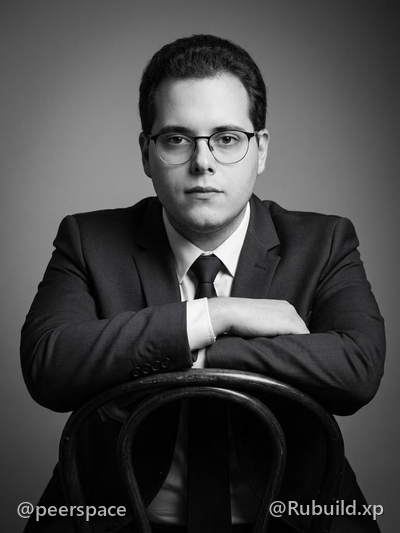
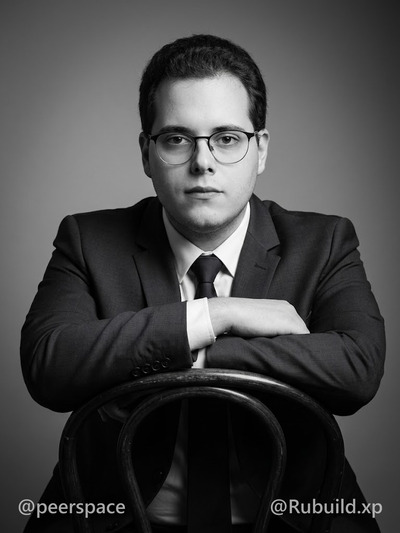
New studio portrait 3072x4096 with watermarks; 400/768/1536/3072 srcset

Changed region(s): [[0.66, 0.9306, 0.96, 0.9906], [0.03, 0.9306, 0.33, 0.9906]]

diff --git a/content/fr/index.md b/content/fr/index.md
@@ -33,7 +33,7 @@ highlights:
     text: "À 17 ans, parmi les 100 finalistes du plus grand concours de poésie amateur de France, avec <em>Danse sur les dunes</em>, publié aux Éditions Bruno Doucey."
 ---
 <div class="about-intro">
-<img class="about-portrait about-portrait--lg" src="/assets/img/ruben-gariazzo-studio-400.jpg" srcset="/assets/img/ruben-gariazzo-studio-400.jpg 400w, /assets/img/ruben-gariazzo-studio-768.jpg 768w, /assets/img/ruben-gariazzo-studio.jpg 1536w" sizes="17rem" width="400" height="533" alt="Portrait en noir et blanc de Ruben Gariazzo, élève ingénieur à l'EPF">
+<img class="about-portrait about-portrait--lg" src="/assets/img/ruben-gariazzo-studio-400.jpg" srcset="/assets/img/ruben-gariazzo-studio-400.jpg 400w, /assets/img/ruben-gariazzo-studio-768.jpg 768w, /assets/img/ruben-gariazzo-studio-1536.jpg 1536w, /assets/img/ruben-gariazzo-studio.jpg 3072w" sizes="17rem" width="400" height="533" alt="Portrait en noir et blanc de Ruben Gariazzo, élève ingénieur à l'EPF">
 <div>
 <p>Je m'appelle Ruben Gariazzo et je suis élève ingénieur à l'<a href="https://www.epf.fr">EPF</a>, à Paris, depuis 2025. Ce qui me motive dans l'ingénierie, c'est la curiosité. J'ai besoin de comprendre comment les choses fonctionnent avant d'essayer de les améliorer, et j'aime que cette compréhension aboutisse à un objet concret.</p>
 <p>La Formule 1 et le spatial m'attirent particulièrement, parce qu'on y cherche la performance avec rigueur et en équipe. Je m'intéresse aussi à des sujets plus éloignés, comme l'écriture ou les objets du quotidien, car ils entretiennent ma curiosité et ma façon de regarder un problème.</p>

diff --git a/content/zh/index.md b/content/zh/index.md
@@ -33,7 +33,7 @@ highlights:
     text: "17 岁时，我以《沙丘之舞》（<em>Danse sur les dunes</em>）入围法国规模最大的业余诗歌比赛的 100 名决赛选手，作品由布鲁诺·杜塞出版社（Éditions Bruno Doucey）出版。"
 ---
 <div class="about-intro">
-<img class="about-portrait about-portrait--lg" src="/assets/img/ruben-gariazzo-studio-400.jpg" srcset="/assets/img/ruben-gariazzo-studio-400.jpg 400w, /assets/img/ruben-gariazzo-studio-768.jpg 768w, /assets/img/ruben-gariazzo-studio.jpg 1536w" sizes="17rem" width="400" height="533" alt="Ruben Gariazzo 的黑白肖像，EPF 工程师学院在读">
+<img class="about-portrait about-portrait--lg" src="/assets/img/ruben-gariazzo-studio-400.jpg" srcset="/assets/img/ruben-gariazzo-studio-400.jpg 400w, /assets/img/ruben-gariazzo-studio-768.jpg 768w, /assets/img/ruben-gariazzo-studio-1536.jpg 1536w, /assets/img/ruben-gariazzo-studio.jpg 3072w" sizes="17rem" width="400" height="533" alt="Ruben Gariazzo 的黑白肖像，EPF 工程师学院在读">
 <div>
 <p>我叫 Ruben Gariazzo，2025 年起在巴黎的 <a href="https://www.epf.fr/en">EPF 工程师学院</a>就读。工程学让我着迷的地方是好奇心。我需要先弄明白事物是怎么运转的，才会想办法去改进它，而且我希望这份理解最终能落到一件具体的东西上。</p>
 <p>一级方程式赛车和航天尤其吸引我，因为在这两个领域里，人们既严谨又团队协作地追求性能。我也被一些离得更远的主题所吸引，比如写作和日常物品，因为它们滋养着我的好奇心，也影响着我看待问题的方式。</p>

diff --git a/content/en/index.md b/content/en/index.md
@@ -33,7 +33,7 @@ highlights:
     text: "At 17, one of the 100 finalists of France's largest amateur poetry competition, with <em>Danse sur les dunes</em>, published by Éditions Bruno Doucey."
 ---
 <div class="about-intro">
-<img class="about-portrait about-portrait--lg" src="/assets/img/ruben-gariazzo-studio-400.jpg" srcset="/assets/img/ruben-gariazzo-studio-400.jpg 400w, /assets/img/ruben-gariazzo-studio-768.jpg 768w, /assets/img/ruben-gariazzo-studio.jpg 1536w" sizes="17rem" width="400" height="533" alt="Black and white portrait of Ruben Gariazzo, engineering student at EPF">
+<img class="about-portrait about-portrait--lg" src="/assets/img/ruben-gariazzo-studio-400.jpg" srcset="/assets/img/ruben-gariazzo-studio-400.jpg 400w, /assets/img/ruben-gariazzo-studio-768.jpg 768w, /assets/img/ruben-gariazzo-studio-1536.jpg 1536w, /assets/img/ruben-gariazzo-studio.jpg 3072w" sizes="17rem" width="400" height="533" alt="Black and white portrait of Ruben Gariazzo, engineering student at EPF">
 <div>
 <p>My name is Ruben Gariazzo and I am an engineering student at <a href="https://www.epf.fr/en">EPF</a> in Paris, where I have been since 2025. What drives me in engineering is curiosity. I need to understand how things work before I try to improve them, and I like that understanding to end in something concrete.</p>
 <p>Formula 1 and space appeal to me in particular, because they pursue performance with rigor and as a team. I am also drawn to subjects further afield, such as writing and everyday objects, because they feed my curiosity and the way I look at a problem.</p>
